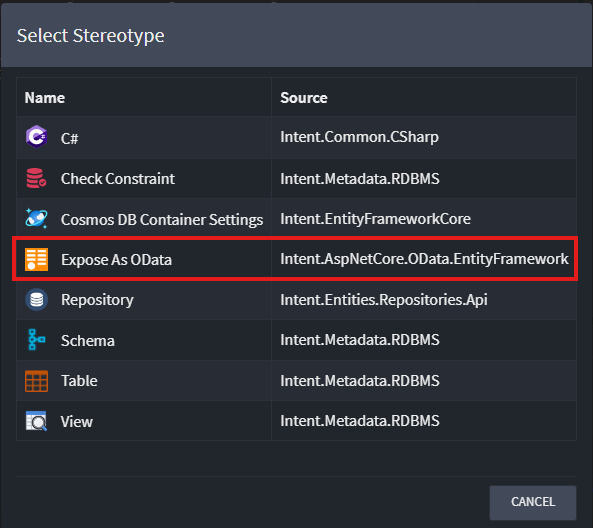
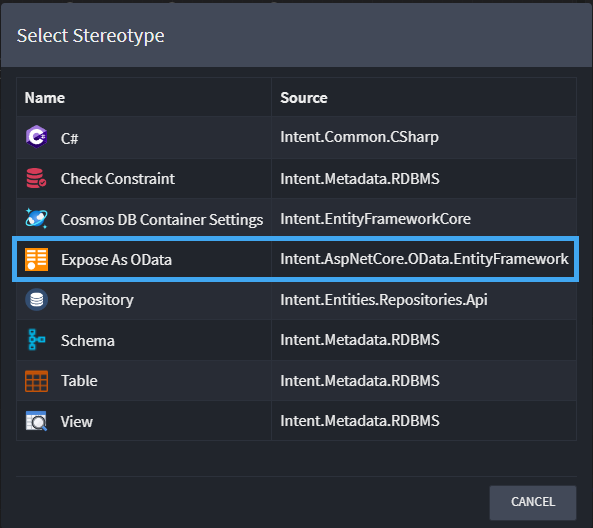
Updated docs
Updated document box coloring
Updated README.md with better wording

Changed region(s): [[0.0, 0.4242, 1.0, 0.5455]]

diff --git a/Modules/Intent.Modules.AspNetCore.OData.EntityFramework/docs/README.md b/Modules/Intent.Modules.AspNetCore.OData.EntityFramework/docs/README.md
@@ -20,11 +20,11 @@ To leverage the OData Query functionality simply apply the `Expose As OData` ste
 
 The Stereotype must meet the following criteria:
 
-- The `Entity` must be mapped onto a domain `Class` (which has a repository).
+- The `Class` must be part of a repository.
 
 ## Using the Expose As OData `options`
 
-By default all options are enabled. Switching these options will either add a specific `Controller Action` to each `{Entity}Controller`
+By default all options are enabled. Checking any of these options will either add a specific `Controller Action Method` to each `{Entity}Controller`
 
 ![OData EntityFramework Stereotype](images/exposeasodata-stereotype-options.png)
 
